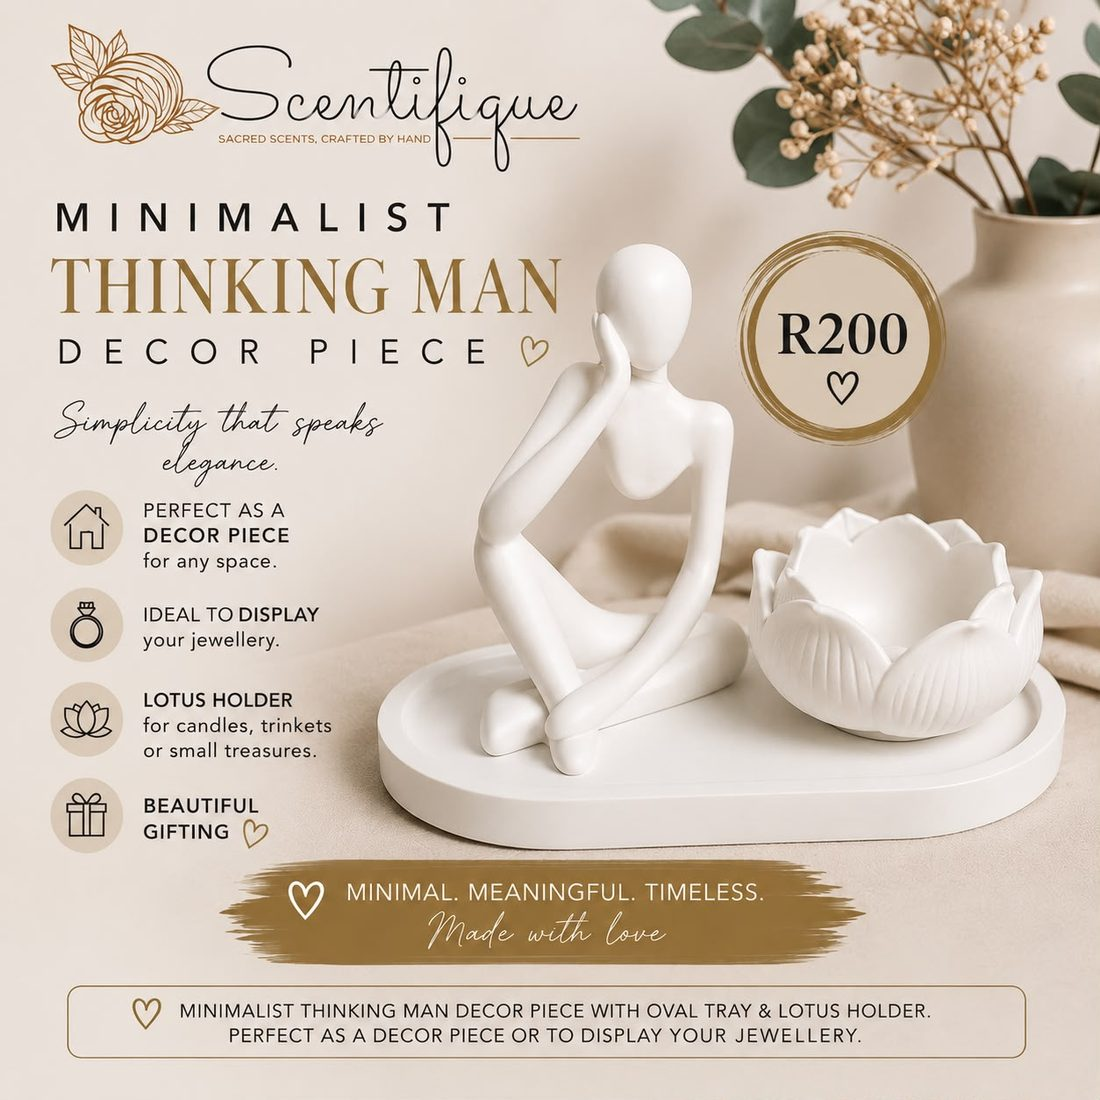
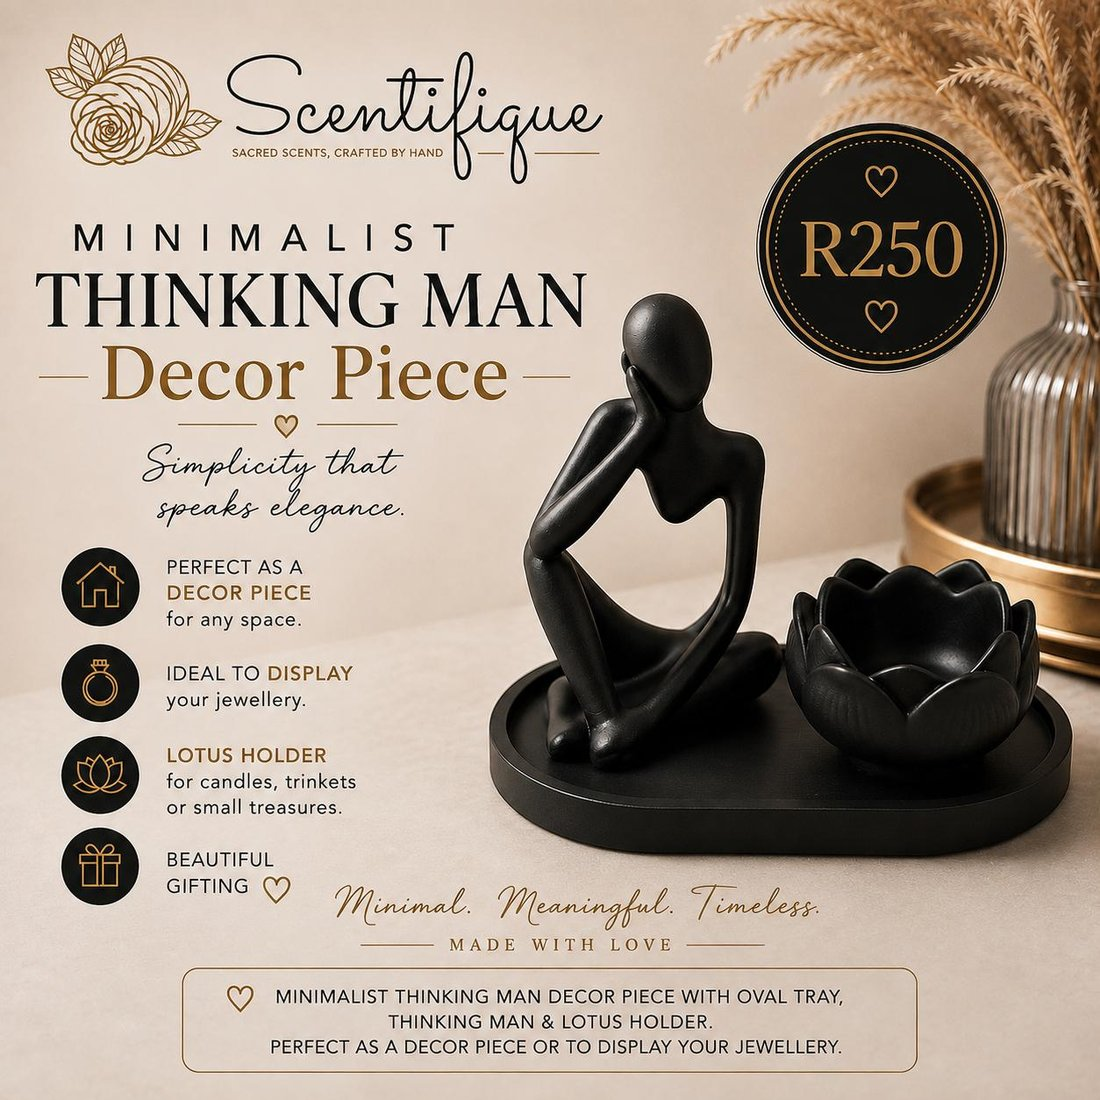
Scentifique: update Thinking Man price, add 2 new products
- Minimalist Thinking Man Decor Piece: R200 -> R250, new photo
- New: White Oval Tray with White Peony Diffuser (R150)
- New: Serene Silhouette Jewellery Tray (R130, excluding jewellery)

diff --git a/scentifique.html b/scentifique.html
@@ -388,6 +388,16 @@ footer{background:var(--bg2);border-top:1px solid var(--border);padding:40px 32p
     </div>
 
     <div class="product-card">
+      <img src="scentifique-white-oval-peony.jpg" alt="White Oval Tray with White Peony Diffuser" loading="lazy"/>
+      <div class="product-info">
+        <div class="badge badge-gold">New Arrival</div>
+        <div class="product-name">White Oval Tray with White Peony Diffuser</div>
+        <div class="product-sub">White peony diffuser displayed on a matching white oval tray — add your favourite fragrance oil or use as a centre piece.</div>
+        <div class="product-footer"><span class="product-price">R150</span><button class="add-btn" onclick="addToCart('White Oval Tray with White Peony Diffuser — Scentifique','R150','scentifique-white-oval-peony.jpg')">+ Add to Order</button></div>
+      </div>
+    </div>
+
+    <div class="product-card">
       <img src="scentifique-rose-diffuser-coaster.jpg" alt="Rose Diffuser on Coaster" loading="lazy"/>
       <div class="product-info">
         <div class="badge badge-gold">Available</div>
@@ -494,7 +504,18 @@ footer{background:var(--bg2);border-top:1px solid var(--border);padding:40px 32p
         <div class="badge badge-gold">Available</div>
         <div class="product-name">Minimalist Thinking Man Decor Piece</div>
         <div class="product-sub">Thinking Man figurine with lotus holder on an oval tray — decor piece or jewellery display.</div>
-        <div class="product-footer"><span class="product-price">R200</span><button class="add-btn" onclick="addToCart('Minimalist Thinking Man Decor Piece — Scentifique','R200','scentifique-thinking-man.jpg')">+ Add to Order</button></div>
+        <div class="product-footer"><span class="product-price">R250</span><button class="add-btn" onclick="addToCart('Minimalist Thinking Man Decor Piece — Scentifique','R250','scentifique-thinking-man.jpg')">+ Add to Order</button></div>
+      </div>
+    </div>
+
+    <div class="product-card">
+      <img src="scentifique-serene-silhouette.jpg" alt="Serene Silhouette Jewellery Tray" loading="lazy"/>
+      <div class="product-info">
+        <div class="badge badge-gold">New Arrival</div>
+        <div class="product-name">Serene Silhouette Jewellery Tray</div>
+        <div class="product-sub">Calm, graceful line-art tray design — perfect for displaying rings, a necklace or small treasures.</div>
+        <div class="colour-note">Excluding jewellery</div>
+        <div class="product-footer"><span class="product-price">R130</span><button class="add-btn" onclick="addToCart('Serene Silhouette Jewellery Tray — Scentifique','R130','scentifique-serene-silhouette.jpg')">+ Add to Order</button></div>
       </div>
     </div>
 
